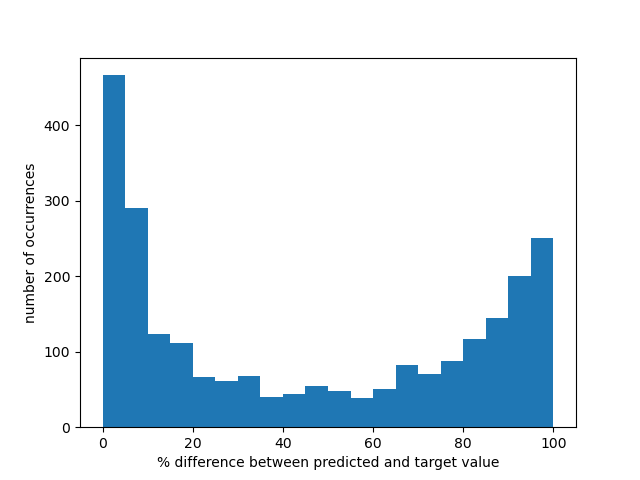
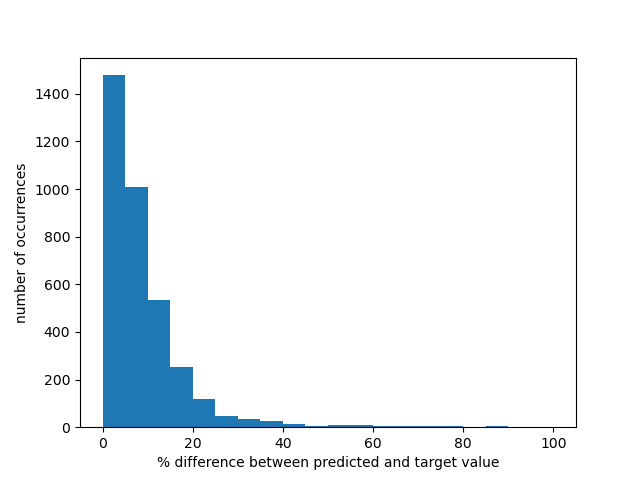
it kind of works now pog

diff --git a/dynamicspredict.py b/dynamicspredict.py
@@ -42,6 +42,7 @@ def denormalize_data(norm_tensor, col, tensor_max, tensor_min):
 
 # remove all outliers greater than 5 standard deviations away from center
 def remove_outliers(data_tensor, target_tensor):
+    print("removing outliers")
     rows_to_elim = []
 
     # loop thru each column, get mean and std of column
@@ -57,7 +58,7 @@ def remove_outliers(data_tensor, target_tensor):
         # get mean and std of data tensor
         col_mean = torch.mean(col_tensor)
         col_std = torch.std(col_tensor)
-        offset = col_std * 5
+        offset = col_std * 4
         # print("column mean:", col_mean)
         # print("column std:", col_std)
         # print("outlier offset:", offset)
@@ -70,7 +71,6 @@ def remove_outliers(data_tensor, target_tensor):
                     print("eliminating row:", rownum)
                     # print(data_tensor[rownum])
                     rows_to_elim.append(rownum)
-        print()
 
     # eliminate rows from data and target here
     # convert to np, delete all relevant rows, then return to tensor of type FloatTensor
@@ -84,9 +84,9 @@ def remove_outliers(data_tensor, target_tensor):
 
     data_tensor, target_tensor = data_tensor.type(torch.FloatTensor), target_tensor.type(torch.FloatTensor)
 
-    print("normalized tensors:")
-    print(data_tensor)
-    print(target_tensor)
+    # print("outliers removed:")
+    # print(data_tensor)
+    # print(target_tensor)
 
     return data_tensor, target_tensor
 
@@ -122,7 +122,6 @@ def z_score(data_tensor, target_tensor):
         for rownum in range(0, numrows):
             data_tensor[rownum][colnum] -= col_mean
             data_tensor[rownum][colnum] /= col_std
-    print()
     # z-score norm on targets
     print("targets:")
     numcols = target_tensor.size()[1]
@@ -147,14 +146,38 @@ def z_score(data_tensor, target_tensor):
             target_tensor[rownum] -= tgt_mean
             target_tensor[rownum] /= tgt_std
 
-    print("final normalized targets:")
+    print("normalized tensors:")
     print(data_tensor)
     print(target_tensor)
     return data_tensor, target_tensor
 
 
-def denormalize_data(data_tensor, target_tensor):
-    return
+def denormalize_data(output_tensor, target_tensor):
+    # de-normalize data
+    '''numcols = data_tensor.size()[1]
+    numrows = data_tensor.size()[0]
+    for colnum in range(0, numcols):
+        col_std = col_std_data[colnum]
+        col_mean = col_mean_data[colnum]
+        for rownum in range(0, numrows):
+            data_tensor[rownum][colnum] *= col_std
+            data_tensor[rownum][colnum] += col_mean'''
+    # de-normalize targets
+    numcols = target_tensor.size()[1]
+    numrows = target_tensor.size()[0]
+    for colnum in range(0, numcols):
+        tgt_std = col_std_tgt[colnum]
+        tgt_mean = col_mean_tgt[colnum]
+        # reverse operations
+        for rownum in range(0, numrows):
+            target_tensor[rownum] *= tgt_std
+            target_tensor[rownum] += tgt_mean
+            output_tensor[rownum] *= tgt_std
+            output_tensor[rownum] += tgt_mean
+    print("final denormalized targets:")
+    print(target_tensor)
+    print(target_tensor)
+    return output_tensor, target_tensor
 
 
 # get min + max in tensor column for better normalization(tm)
@@ -179,18 +202,17 @@ diffs = []
 def comp_tensor(predict, target, diffpercent):
     correct = 0
     num = torch.numel(predict)
-    tempcorrect = 0
+    # tempcorrect = 0
     for i in range(0, num):
         predict_val = predict[i].item()
         target_val = target[i].item()
         print("predict val:", predict_val, "target_val:",target_val)
         diffs.append(100*abs(abs(target_val - predict_val) / target_val))
         if abs(abs(target_val - predict_val) / target_val) <= diffpercent:
-            tempcorrect += 1
-
-    print(tempcorrect, "correct out of 6")
-    if tempcorrect == 6:
-        correct += 1
+            correct += 1
+    print(correct, "correct out of 6")
+    # if tempcorrect == 6:
+    #    correct += 1
     return correct
 
 
@@ -329,7 +351,7 @@ print(len(test_set))
 
 # train_set_len = int(split*len(dataset))
 model = testNet(10, 100, 2, 6)
-print(model)
+# print(model)
 criterion = nn.MSELoss()
 optimizer = optim.Adam(model.parameters(), lr=lr)
 scheduler = lr_scheduler.ReduceLROnPlateau(optimizer, 'min', factor=0.2, patience=2)
@@ -393,11 +415,7 @@ with torch.no_grad():
         # print(data)
         outputs = model(data)
         numcols = targets.size()[1]
-        for column in range(0, numcols):
-            data_max, data_min = delta_col_minmax[column]
-            denormalize_data(outputs, column, data_max, data_min)
-            denormalize_data(targets, column, data_max, data_min)
-
+        outputs, targets = denormalize_data(outputs, targets)
         # print("targets")
         # print(targets)
         # print("outputs")
@@ -405,7 +423,7 @@ with torch.no_grad():
 
         tgtcpy = targets.numpy()
         tgtlen = len(tgtcpy)
-        total += tgtlen
+        total += tgtlen*6
         correct += compfunc(outputs, targets, diffpercent)
 
 print('threshold is  %%%f' % ((diffpercent*100)))
